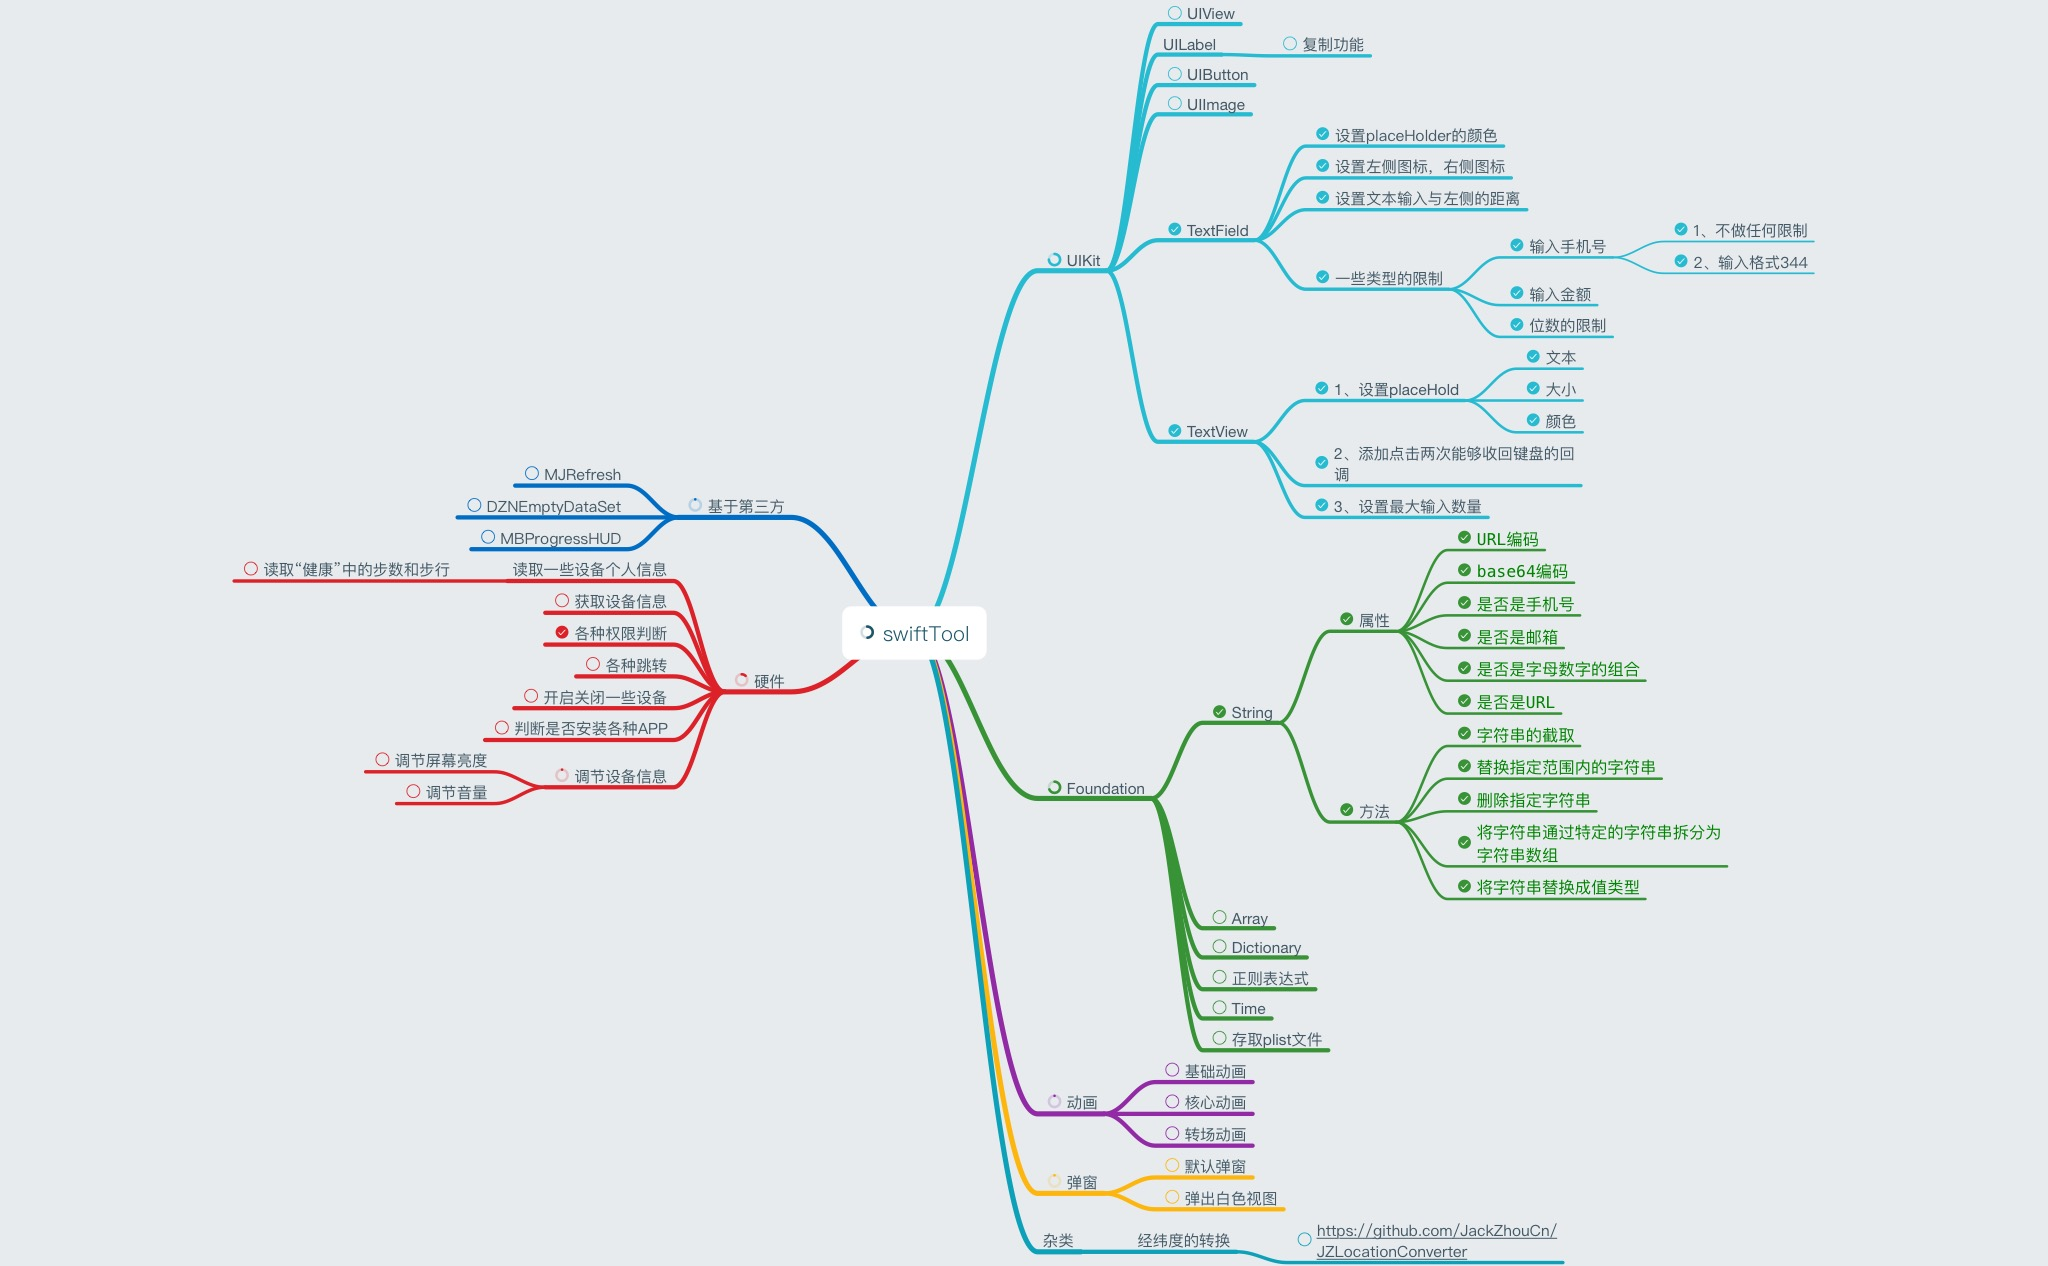
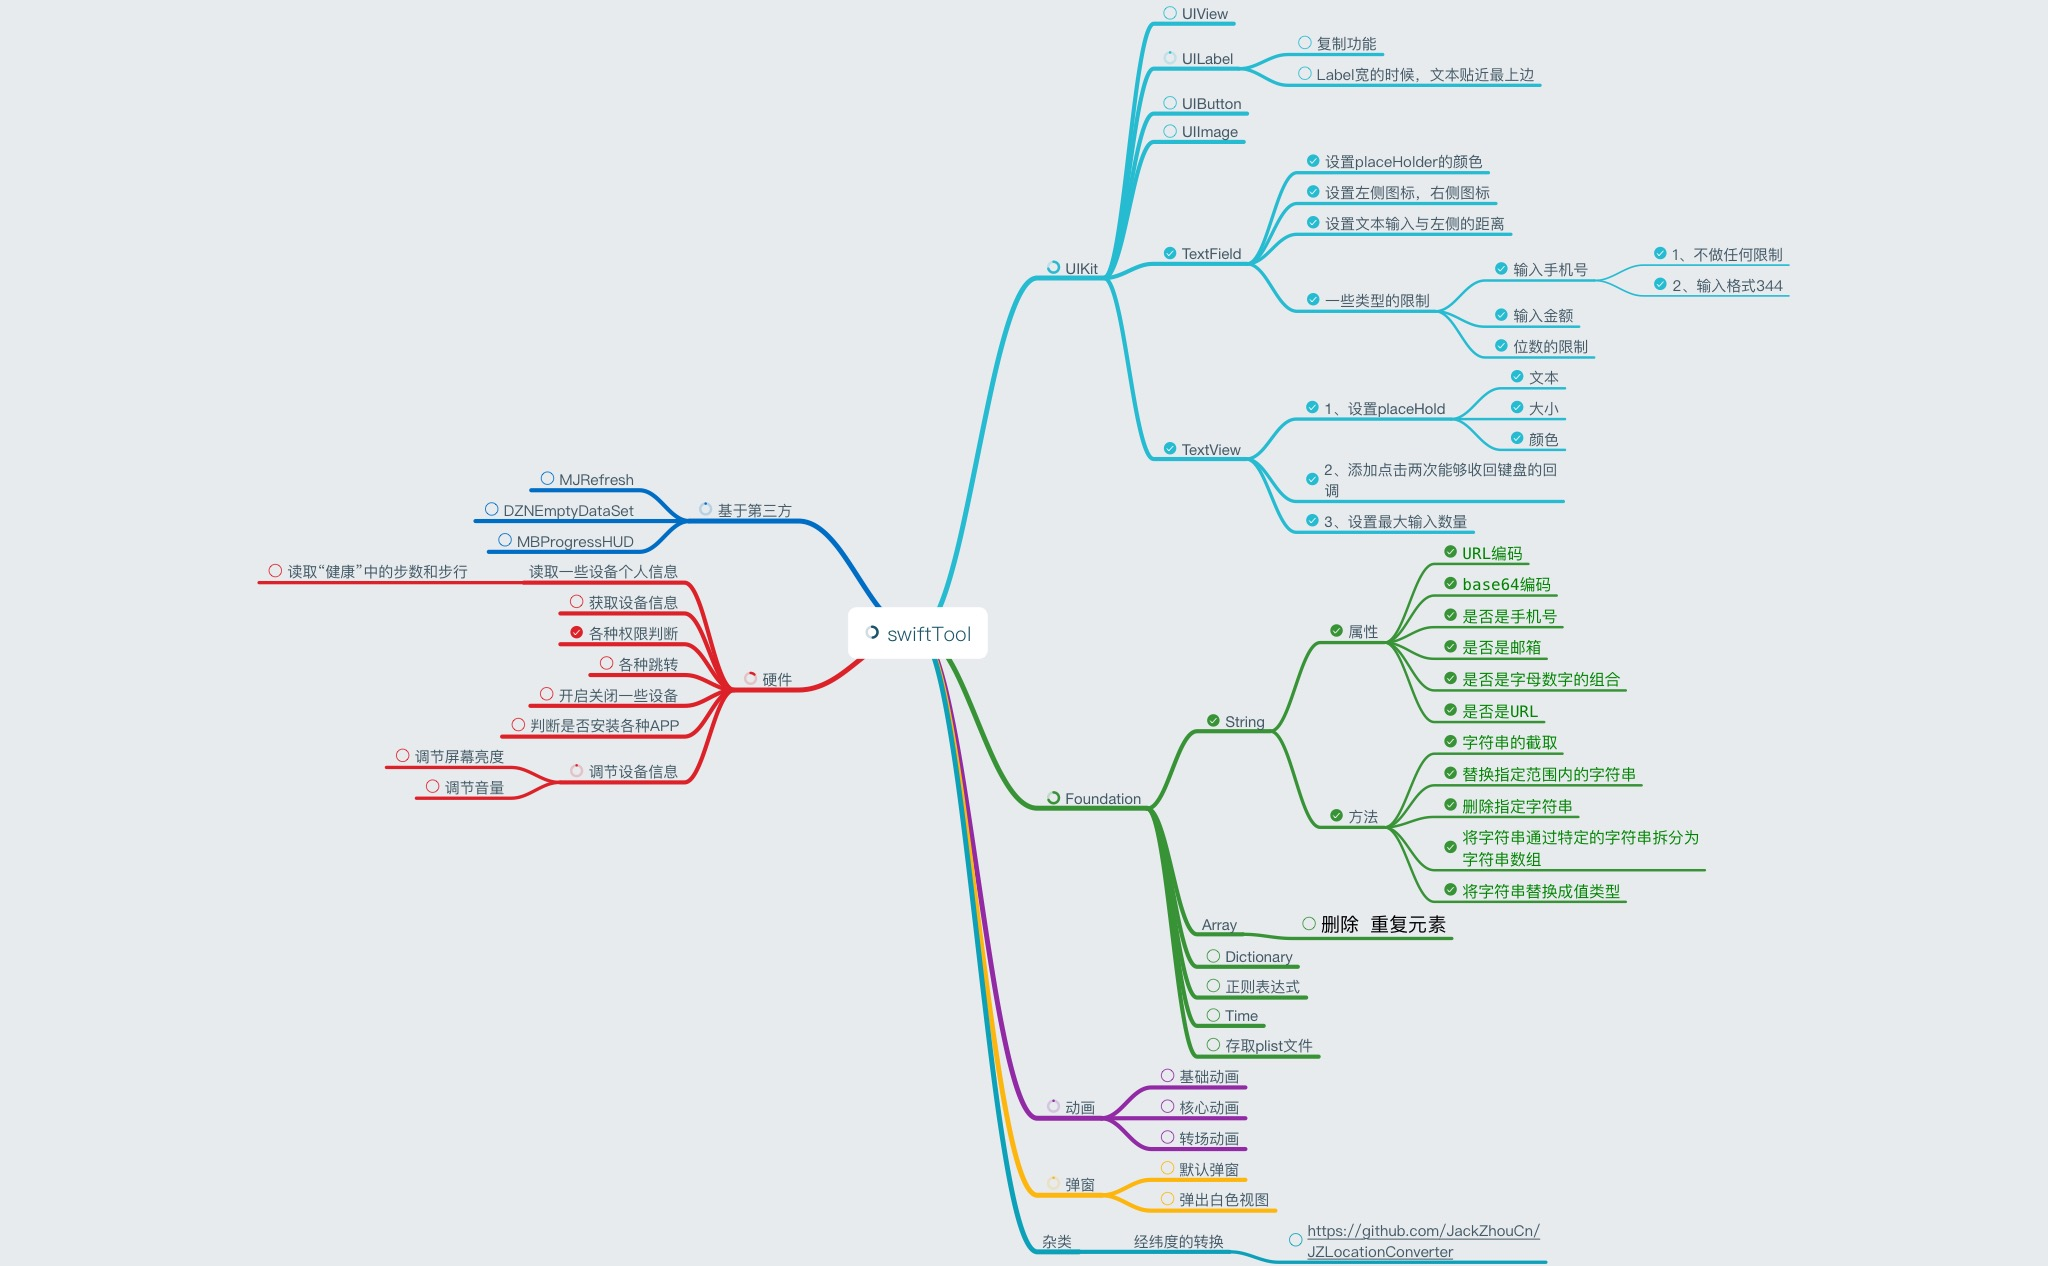
Array扩展

Changed region(s): [[0.4062, 0.0, 0.875, 1.0], [0.125, 0.3697, 0.4062, 0.6469]]

diff --git a/SwiftTool/Foundation/Array+JHExtension.swift b/SwiftTool/Foundation/Array+JHExtension.swift
@@ -1,0 +1,68 @@
+//
+//  Array+JHExtension.swift
+//  SwiftToolTest
+//
+//  Created by yunna on 2018/5/15.
+//  Copyright © 2018年 yunna. All rights reserved.
+//
+
+import UIKit
+
+extension Array where Element : Equatable {
+  
+     
+    /// 删除  重复元素
+    public func removedDuplicates() -> [Element] {
+        return reduce([]) { $0.contains($1) ? $0 : $0 + [$1] }
+    }
+
+    public func contains(_ elements: [Element]) -> Bool {
+        for item in elements {
+            if contains(item) == false {
+                return false
+            }
+        }
+        return true
+    }
+ 
+}
+
+
+
+
+
+
+
+
+
+
+
+
+
+
+
+
+
+
+
+
+
+
+
+
+
+
+
+
+
+
+
+
+
+
+
+
+
+
+
+

diff --git a/SwiftToolTest/SwiftToolTest/SwiftTool/Foundation/Array+JHExtension.swift b/SwiftToolTest/SwiftToolTest/SwiftTool/Foundation/Array+JHExtension.swift
@@ -1,0 +1,68 @@
+//
+//  Array+JHExtension.swift
+//  SwiftToolTest
+//
+//  Created by yunna on 2018/5/15.
+//  Copyright © 2018年 yunna. All rights reserved.
+//
+
+import UIKit
+
+extension Array where Element : Equatable {
+  
+     
+    /// 删除  重复元素
+    public func removedDuplicates() -> [Element] {
+        return reduce([]) { $0.contains($1) ? $0 : $0 + [$1] }
+    }
+
+    public func contains(_ elements: [Element]) -> Bool {
+        for item in elements {
+            if contains(item) == false {
+                return false
+            }
+        }
+        return true
+    }
+ 
+}
+
+
+
+
+
+
+
+
+
+
+
+
+
+
+
+
+
+
+
+
+
+
+
+
+
+
+
+
+
+
+
+
+
+
+
+
+
+
+
+

diff --git a/SwiftToolTest/SwiftToolTest/Foundation/ArrayController.swift b/SwiftToolTest/SwiftToolTest/Foundation/ArrayController.swift
@@ -1,0 +1,24 @@
+//
+//  ArrayController.swift
+//  SwiftToolTest
+//
+//  Created by yunna on 2018/5/15.
+//  Copyright © 2018年 yunna. All rights reserved.
+//
+
+import UIKit
+
+class ArrayController: UIViewController {
+
+    override func viewDidLoad() {
+        super.viewDidLoad()
+ 
+        var list = ["1","1","2","2"]
+        print(list.removedDuplicates())
+    
+        
+         
+    }
+
+    
+}

diff --git a/SwiftToolTest/SwiftToolTest/Foundation/StringController.swift b/SwiftToolTest/SwiftToolTest/Foundation/StringController.swift
@@ -32,7 +32,6 @@ class StringController: UIViewController {
         print(TEXT3.deleteEndCharacters())
         print(TEXT3.deleteString(string: "https"))
         
-
         // 类型转化
         let TEXT4 = "123"
         let TEXT5 = "abc"

diff --git a/SwiftToolTest/SwiftToolTest/SwiftTool/Foundation/String+JHExtension.swift b/SwiftToolTest/SwiftToolTest/SwiftTool/Foundation/String+JHExtension.swift
@@ -132,6 +132,7 @@ extension String{
 
 //MARK: -- 将字符串替换成值类型 --
 extension String{
+     
     ///变成Int 类型
     public func toInt() -> Int? {
         if let num = NumberFormatter().number(from: self) {

diff --git a/README.md b/README.md
@@ -72,8 +72,10 @@
  |obtainTextHeight(font : UIFont = UIFont.systemFont(ofSize: 18), fixedWidth : CGFloat) -> CGFloat|获取文本高度|
  |obtainTextWidth(font : UIFont = UIFont.systemFont(ofSize: 17)) -> CGFloat|获取文本宽度|
  
-
-
+### Array扩展
+|名称|说明|
+|---|:---:|
+|removedDuplicates|删除  重复元素|
 
 
  
